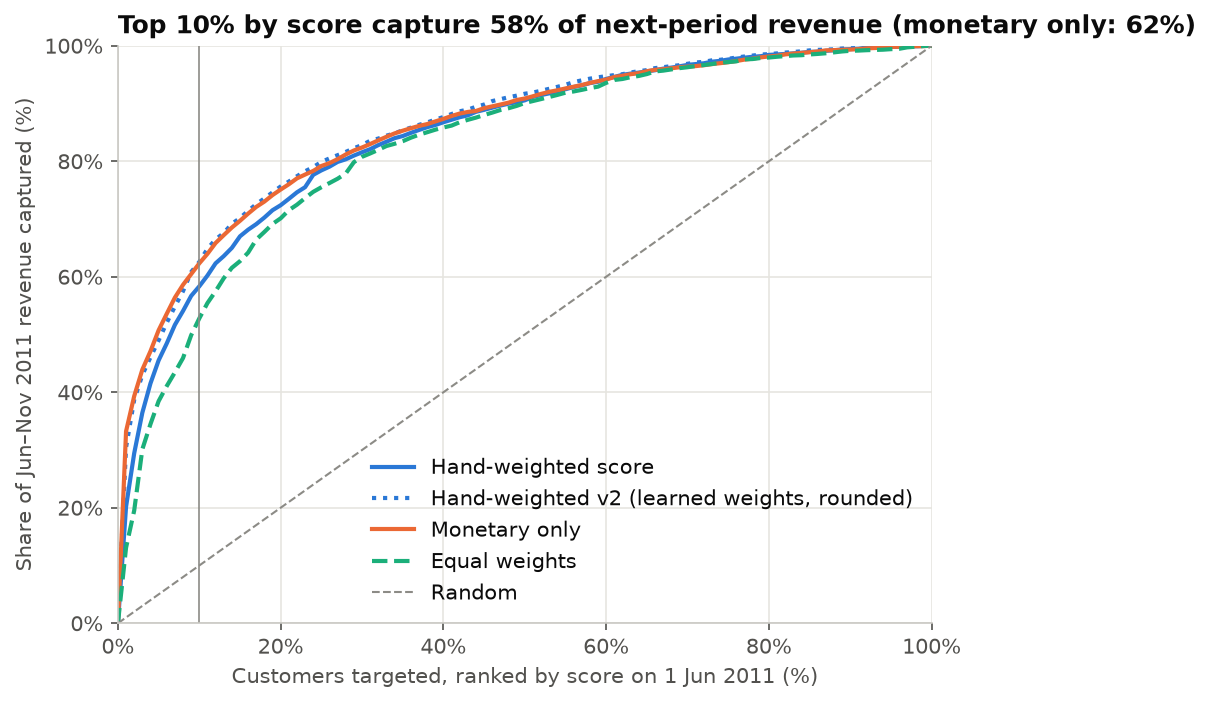
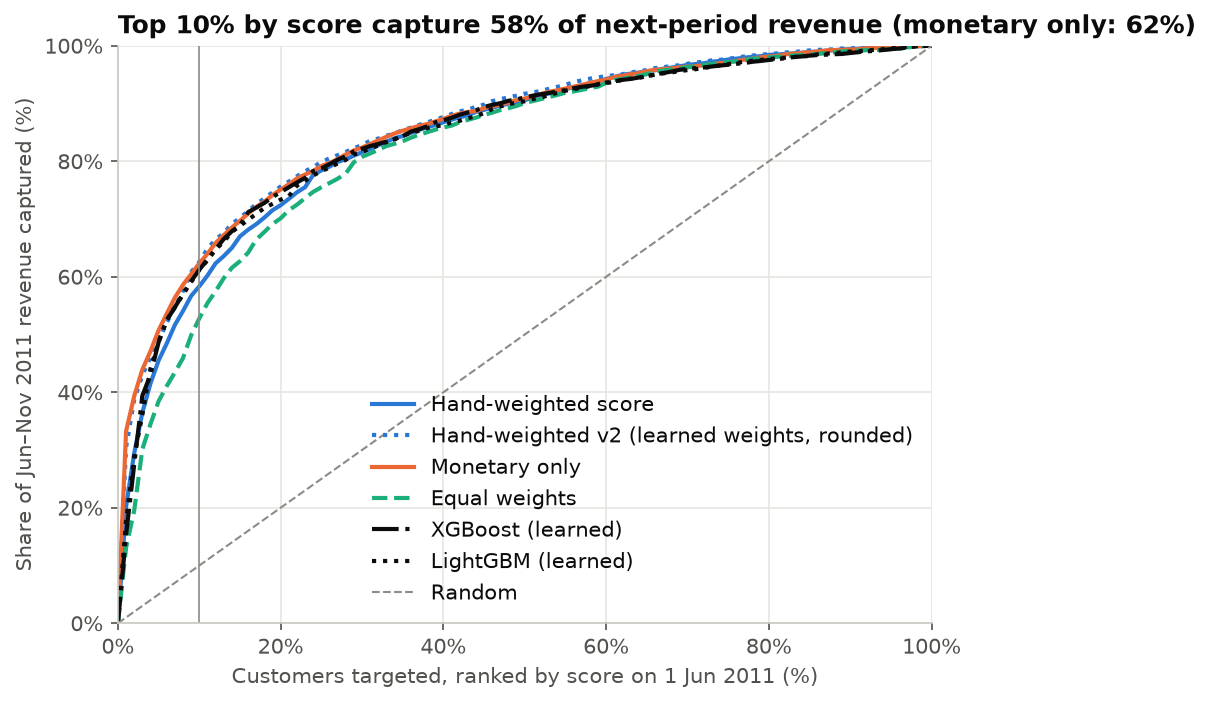
Tiering benchmark: add XGBoost and LightGBM (untuned, trained on the earlier period)
- tiering/validate.py: XGBClassifier and LGBMClassifier on the same raw features, target (top 20%
  of future revenue) and 2010-12-01 training period as the other learned models; NaN regularity
  handled natively; fixed settings, nothing tuned on the 2011-06 test window
- Both added to the comparison table and capture curves; top-5 gain importances in metrics/tiering.json
- Result: XGBoost Spearman 0.558 / top-10% capture 61.21%, LightGBM 0.557 / 61.16%; neither beats
  the hand-weighted Spearman (0.607) or monetary-only capture (62.32%), so the weighted score stays
- RESULTS.md verdict is computed from the metrics; README table and key results updated
- Demo DB rebuilt (tier_methods 6 -> 8 rows; nothing else changed); tests for both models
- Zero Gemini calls

Claude-Session: https://claude.ai/code/session_016qewhiEvKMmqjKHxGWVVmi

diff --git a/tiering/validate.py b/tiering/validate.py
@@ -1,16 +1,19 @@
-"""Validate the tiering model on future revenue, compare it with baselines and a
-learned model, test weight sensitivity, and draw the charts.
+"""Validate the tiering model on future revenue, compare it with baselines and
+learned models (logistic regression, scikit-learn gradient boosting, XGBoost, LightGBM),
+test weight sensitivity, and draw the charts.
 
     python -m tiering.validate      # writes metrics/tiering.json and figures/04-05
 
 Scoring date 2011-06-01; outcome = revenue from 2011-06-01 to 2011-11-30.
 
-The learned model must not be fit on the outcome it is judged on, so it is
+The learned models must not be fit on the outcome they are judged on, so they are
 trained one period earlier: features at 2010-12-01 -> revenue 2010-12-01 to
 2011-05-31 (same 6-month horizon), then applied unchanged at 2011-06-01.
 """
+import lightgbm as lgb
 import numpy as np
 import pandas as pd
+import xgboost as xgb
 from scipy.stats import spearmanr
 from sklearn.ensemble import HistGradientBoostingClassifier
 from sklearn.linear_model import LogisticRegression
@@ -70,7 +73,29 @@ def learned_models(train: pd.DataFrame) -> dict:
     # Gradient boosting on raw features (handles NaN regularity natively) as a flexible upper bound
     hgb = HistGradientBoostingClassifier(max_iter=200, learning_rate=0.05, max_leaf_nodes=15,
                                          random_state=42).fit(train[FEATURES], y)
-    return {"logit": logit, "hgb": hgb, "train_positive_rate": float(y.mean())}
+    # XGBoost and LightGBM: same raw features, same target, same training period; both treat NaN
+    # regularity natively. Fixed, untuned settings: nothing is tuned on the 2011-06 test window.
+    xgbm = xgb.XGBClassifier(n_estimators=300, learning_rate=0.05, max_depth=4, subsample=0.8,
+                             colsample_bytree=0.8, random_state=42).fit(train[FEATURES], y)
+    lgbm = lgb.LGBMClassifier(n_estimators=300, learning_rate=0.05, num_leaves=15, subsample=0.8,
+                              colsample_bytree=0.8, random_state=42, verbose=-1).fit(train[FEATURES], y)
+    return {"logit": logit, "hgb": hgb, "xgb": xgbm, "lgbm": lgbm, "train_positive_rate": float(y.mean())}
+
+
+def gain_importance(models: dict, top: int = 5) -> dict[str, list[dict]]:
+    """Top features by total split gain, as a share of the model's total gain."""
+    gains = {
+        "XGBoost (learned)": models["xgb"].get_booster().get_score(importance_type="total_gain"),
+        "LightGBM (learned)": dict(zip(models["lgbm"].booster_.feature_name(),
+                                       models["lgbm"].booster_.feature_importance(importance_type="gain"),
+                                       strict=True)),
+    }
+    out = {}
+    for name, g in gains.items():
+        total = sum(g.values())
+        ranked = sorted(((f, float(g.get(f, 0.0))) for f in FEATURES), key=lambda x: -x[1])[:top]
+        out[name] = [{"feature": f, "gain": round(v, 2), "gain_share_pct": round(100 * v / total, 2)} for f, v in ranked]
+    return out
 
 
 def weight_sensitivity(features: pd.DataFrame, outcome: pd.Series, base_tiers: pd.Series) -> list[dict]:
@@ -109,7 +134,7 @@ def charts(tiers: pd.DataFrame, curves: dict[str, pd.DataFrame], mono_share: flo
     import matplotlib.pyplot as plt
     import matplotlib.ticker as mtick
 
-    from src.style import AQUA, BLUE, GRAY, INK_2, ORANGE, apply_style, save
+    from src.style import AQUA, BLUE, GRAY, INK, INK_2, ORANGE, apply_style, save
 
     apply_style()
     fig, ax = plt.subplots()
@@ -128,7 +153,8 @@ def charts(tiers: pd.DataFrame, curves: dict[str, pd.DataFrame], mono_share: flo
 
     fig, ax = plt.subplots(figsize=(7, 5))
     styles = {"Hand-weighted score": (BLUE, "-"), "Hand-weighted v2 (learned weights, rounded)": (BLUE, ":"),
-              "Monetary only": (ORANGE, "-"), "Equal weights": (AQUA, "--")}
+              "Monetary only": (ORANGE, "-"), "Equal weights": (AQUA, "--"),
+              "XGBoost (learned)": (INK, "-."), "LightGBM (learned)": (INK, ":")}
     for name, (color, ls) in styles.items():
         c = curves[name]
         ax.plot(c["pct_customers"], c["pct_revenue"], color=color, linestyle=ls, label=name)
@@ -173,6 +199,8 @@ def main() -> dict:
             models["logit"].predict_proba(percentiles(features))[:, 1], index=features.index),
         "Gradient boosting (learned)": pd.Series(
             models["hgb"].predict_proba(features)[:, 1], index=features.index),
+        "XGBoost (learned)": pd.Series(models["xgb"].predict_proba(features)[:, 1], index=features.index),
+        "LightGBM (learned)": pd.Series(models["lgbm"].predict_proba(features)[:, 1], index=features.index),
     }
     comparison = [{"method": name, **ranking_metrics(s, outcome)} for name, s in methods.items()]
     curves = {name: capture_curve(s, outcome) for name, s in methods.items()}
@@ -216,6 +244,7 @@ def main() -> dict:
         "monotonic_median": monotonic_median,
         "comparison": comparison,
         "best_capture_top10_method": best["method"],
+        "feature_importance_gain": gain_importance(models),
         "learned_weights": learned_weights,
         "v2_weights": v2_weights,
         "tiers_v2": tiers_v2.reset_index().to_dict(orient="records"),
@@ -230,6 +259,8 @@ def main() -> dict:
     print(tiers.to_string())
     print(pd.DataFrame(comparison).to_string(index=False))
     print(pd.DataFrame(learned_weights).to_string(index=False))
+    for name, imp in metrics["feature_importance_gain"].items():
+        print(f"{name} top-5 gain:", ", ".join(f"{r['feature']} {r['gain_share_pct']}%" for r in imp))
     print("v2 weights:", v2_weights)
     print(tiers_v2.to_string())
     print(pd.DataFrame(sensitivity).to_string(index=False))

diff --git a/src/make_results.py b/src/make_results.py
@@ -170,6 +170,7 @@ def section_tiering(m: dict) -> list[str]:
         "",
         table([{**c, "spearman": f"{c['spearman']:.3f}"} for c in m["comparison"]], ["method", "spearman", "capture_top10_pct", "capture_top20_pct", "capture_top30_pct"]),
         "",
+        *boosting_verdict(m),
         "**Learned vs hand weights** (logistic regression on standardized percentile features; "
         "target = top 20% of next-6-month revenue, trained one period earlier)",
         "",
@@ -185,6 +186,30 @@ def section_tiering(m: dict) -> list[str]:
         "",
         *ex_lines,
     ]
+
+
+def boosting_verdict(m: dict) -> list[str]:
+    """XGBoost/LightGBM vs the simple bars (hand-weighted Spearman, monetary-only top-10% capture), plus gain importances."""
+    comp = {c["method"]: c for c in m["comparison"]}
+    gbt = [comp[k] for k in ("XGBoost (learned)", "LightGBM (learned)") if k in comp]
+    if not gbt:
+        return []
+    hand, mono = comp["Hand-weighted score"], comp["Monetary only"]
+    beats = [g["method"] for g in gbt if g["spearman"] > hand["spearman"] or g["capture_top10_pct"] > mono["capture_top10_pct"]]
+    verdict = (f"Gradient-boosted trees did not beat the simple score on this data (best Spearman "
+               f"{max(g['spearman'] for g in gbt):.3f} vs {hand['spearman']:.3f}; best top-10% capture "
+               f"{max(g['capture_top10_pct'] for g in gbt)}% vs monetary-only {mono['capture_top10_pct']}%), "
+               "so the explainable weighted score stays." if not beats else
+               f"{' and '.join(beats)} beat a simple bar (hand-weighted Spearman {hand['spearman']:.3f} or monetary-only "
+               f"top-10% capture {mono['capture_top10_pct']}%).")
+    lines = [f"**XGBoost and LightGBM** (300 trees, learning rate 0.05, fixed settings, untuned; same raw features, "
+             f"target and {m['train_cutoff']} training period as the other learned models): {verdict}", ""]
+    imp = m.get("feature_importance_gain", {})
+    if imp:
+        lines += ["**Top-5 features by gain** (share of each model's total split gain)", "",
+                  table([{"model": name, **{f"#{i + 1}": f"{r['feature']} {r['gain_share_pct']:.1f}%" for i, r in enumerate(rows)}}
+                         for name, rows in imp.items()], ["model", "#1", "#2", "#3", "#4", "#5"]), ""]
+    return lines
 
 
 PROMPT_LABELS = {

diff --git a/tests/test_tiering.py b/tests/test_tiering.py
@@ -7,7 +7,7 @@ from pipeline.transform import clean
 from tests.conftest import make_raw
 from tiering.features import FEATURES, build_features_legacy, future_revenue
 from tiering.score import WEIGHTS, assign_tiers, explain, percentiles, score_customers
-from tiering.validate import capture, rounded_weights
+from tiering.validate import capture, gain_importance, learned_models, rounded_weights
 
 
 def toy_features(n: int = 20) -> pd.DataFrame:
@@ -105,3 +105,35 @@ def test_features_respect_the_cutoff(pg_dsn):
     assert c1["future_revenue"] == 50.0
     assert data.loc[2, "future_revenue"] == 0.0 and pd.isna(data.loc[2, "regularity"])
     assert list(data.columns) == FEATURES + ["future_revenue"]
+
+
+def test_xgboost_and_lightgbm_give_valid_probabilities_with_missing_regularity():
+    import numpy as np
+
+    rng = np.random.default_rng(0)
+    n = 300
+    train = pd.DataFrame({f: rng.gamma(2.0, 50.0, n) for f in FEATURES})
+    train.loc[train.index[:40], "regularity"] = np.nan              # fewer than 3 orders: no spread to measure
+    train["future_revenue"] = train["monetary"] * rng.uniform(0.5, 1.5, n)
+    models = learned_models(train)
+    for key in ("xgb", "lgbm"):
+        p = models[key].predict_proba(train[FEATURES])
+        assert p.shape == (n, 2) and np.isfinite(p).all()
+        assert ((p >= 0) & (p <= 1)).all() and np.allclose(p.sum(axis=1), 1.0)
+    imp = gain_importance(models)
+    assert set(imp) == {"XGBoost (learned)", "LightGBM (learned)"}
+    for rows in imp.values():
+        assert len(rows) == 5 and {r["feature"] for r in rows} <= set(FEATURES)
+        assert [r["gain"] for r in rows] == sorted((r["gain"] for r in rows), reverse=True)
+
+
+def test_comparison_includes_xgboost_and_lightgbm():
+    from src.metrics import load_metrics
+
+    m = load_metrics("tiering")
+    comp = {c["method"]: c for c in m["comparison"]}
+    for name in ("XGBoost (learned)", "LightGBM (learned)"):
+        c = comp[name]
+        assert -1 <= c["spearman"] <= 1
+        assert 0 <= c["capture_top10_pct"] <= c["capture_top20_pct"] <= c["capture_top30_pct"] <= 100
+        assert len(m["feature_importance_gain"][name]) == 5

diff --git a/README.md b/README.md
@@ -24,14 +24,14 @@ flowchart TB
 | **Pipeline quality** | 1,067,371 raw rows → 776,579 sales lines. 17 checks per load, **0 failing** (16 pass, 1 warning). Revenue reconciled to the penny (£17,068,582.72); reruns are byte-identical |
 | **dbt layer** | 11 models, **63 tests passing**; after the migration, tier scores match v1 **bit for bit** for all 4,908 customers |
 | **Migration parity** | Clean run **100%** (46/46 checks). An injected silent bug (Norway dropped) passed all 17 quality checks and 63 dbt tests, and was **caught by parity at 58.7%** |
-| **Tiering** | Tier 1 (top 10%) earned **58.3%** of next-6-month revenue, monotonic £5,073 → £125 by tier. **Monetary-only did better: 62.3%**; learned v2 weights 62.6% |
+| **Tiering** | Tier 1 (top 10%) earned **58.3%** of next-6-month revenue, monotonic £5,073 → £125 by tier. **Monetary-only did better: 62.3%**; learned v2 weights 62.6%; XGBoost/LightGBM 61.2%, no better than the simple score |
 | **AI analyst** | Confidently-wrong rate **3.4% → 1.6% → 0.2%** (17/495 → 8/495 → 1/440) with a glossary, then a self-check; v3 execution accuracy 97.7–100% on 3 Gemini models |
 | **RAG knowledge layer** | 10 new questions that need a business definition: **20% → 100%** correct with retrieval (confidently wrong 60% → 0%). All 65 questions: confidently wrong **9.2% → 1.5%**, execution accuracy 84.9% → 98.1%. One regression: RAG broke 1 of the frozen 55. Retrieval recall@8 **0.94**, MRR 0.79 (answerable questions) |
 | **Self-verification + judge** | Number check caught **51/51** injected errors and repaired all 51, but found **0** in the real answers, so confidently wrong stayed 1.5%. LLM judge: 94.3% faithful, 67.9% citations correct; **judge–human agreement pending human labels** |
 
 <details><summary>Stack</summary>
 
-Python, pandas, PostgreSQL 16, pgvector, sentence-transformers, dbt, Airflow 3, scikit-learn, FastAPI, Streamlit, Docker, pytest, ruff, GitHub Actions, Gemini API. Data: Online Retail II, UCI Machine Learning Repository, CC BY 4.0.
+Python, pandas, PostgreSQL 16, pgvector, sentence-transformers, dbt, Airflow 3, scikit-learn, XGBoost, LightGBM, FastAPI, Streamlit, Docker, pytest, ruff, GitHub Actions, Gemini API. Data: Online Retail II, UCI Machine Learning Repository, CC BY 4.0.
 </details>
 
 ---
@@ -165,7 +165,11 @@ Scored on **2011-06-01** using only earlier transactions, then judged on what ea
 | Equal weights | 0.580 | 52.8% |
 | Logistic regression (trained on Dec 2010 → May 2011) | 0.596 | 62.6% |
 | Gradient boosting (same training) | 0.573 | 61.3% |
+| XGBoost (same training, untuned) | 0.558 | 61.2% |
+| LightGBM (same training, untuned) | 0.557 | 61.2% |
 | v2: learned weights rounded to 0.05 | 0.600 | 62.6% |
+
+Gradient-boosted trees did not beat the simple score on this data, so the explainable weighted score stays. XGBoost and LightGBM both put about half their split gain on monetary value (49% and 48%).
 
 **What this says.** v1 ranks the *whole* customer base best (highest Spearman), because recency and frequency separate "will buy again" from "gone". But the top of the list is about who spends big, and a pure monetary ranking wins there.
 

diff --git a/RESULTS.md b/RESULTS.md
@@ -142,7 +142,18 @@ Generated by `python src/make_results.py` from `metrics/*.json`, which the pipel
 | Equal weights | 0.580 | 52.79 | 70.12 | 80.77 |
 | Logistic regression (learned) | 0.596 | 62.58 | 75.68 | 82.87 |
 | Gradient boosting (learned) | 0.573 | 61.31 | 73.36 | 82.28 |
+| XGBoost (learned) | 0.558 | 61.21 | 74.66 | 82.16 |
+| LightGBM (learned) | 0.557 | 61.16 | 73.35 | 81.62 |
 | Hand-weighted v2 (learned weights, rounded) | 0.600 | 62.57 | 75.63 | 82.81 |
+
+**XGBoost and LightGBM** (300 trees, learning rate 0.05, fixed settings, untuned; same raw features, target and 2010-12-01 training period as the other learned models): Gradient-boosted trees did not beat the simple score on this data (best Spearman 0.558 vs 0.607; best top-10% capture 61.21% vs monetary-only 62.32%), so the explainable weighted score stays.
+
+**Top-5 features by gain** (share of each model's total split gain)
+
+| model | #1 | #2 | #3 | #4 | #5 |
+|---|---|---|---|---|---|
+| XGBoost (learned) | monetary 49.2% | regularity 9.7% | recency 9.4% | avg_order_value 9.2% | frequency 7.0% |
+| LightGBM (learned) | monetary 48.0% | frequency 10.4% | avg_order_value 9.3% | recency 8.0% | tenure 7.7% |
 
 **Learned vs hand weights** (logistic regression on standardized percentile features; target = top 20% of next-6-month revenue, trained one period earlier)
 
